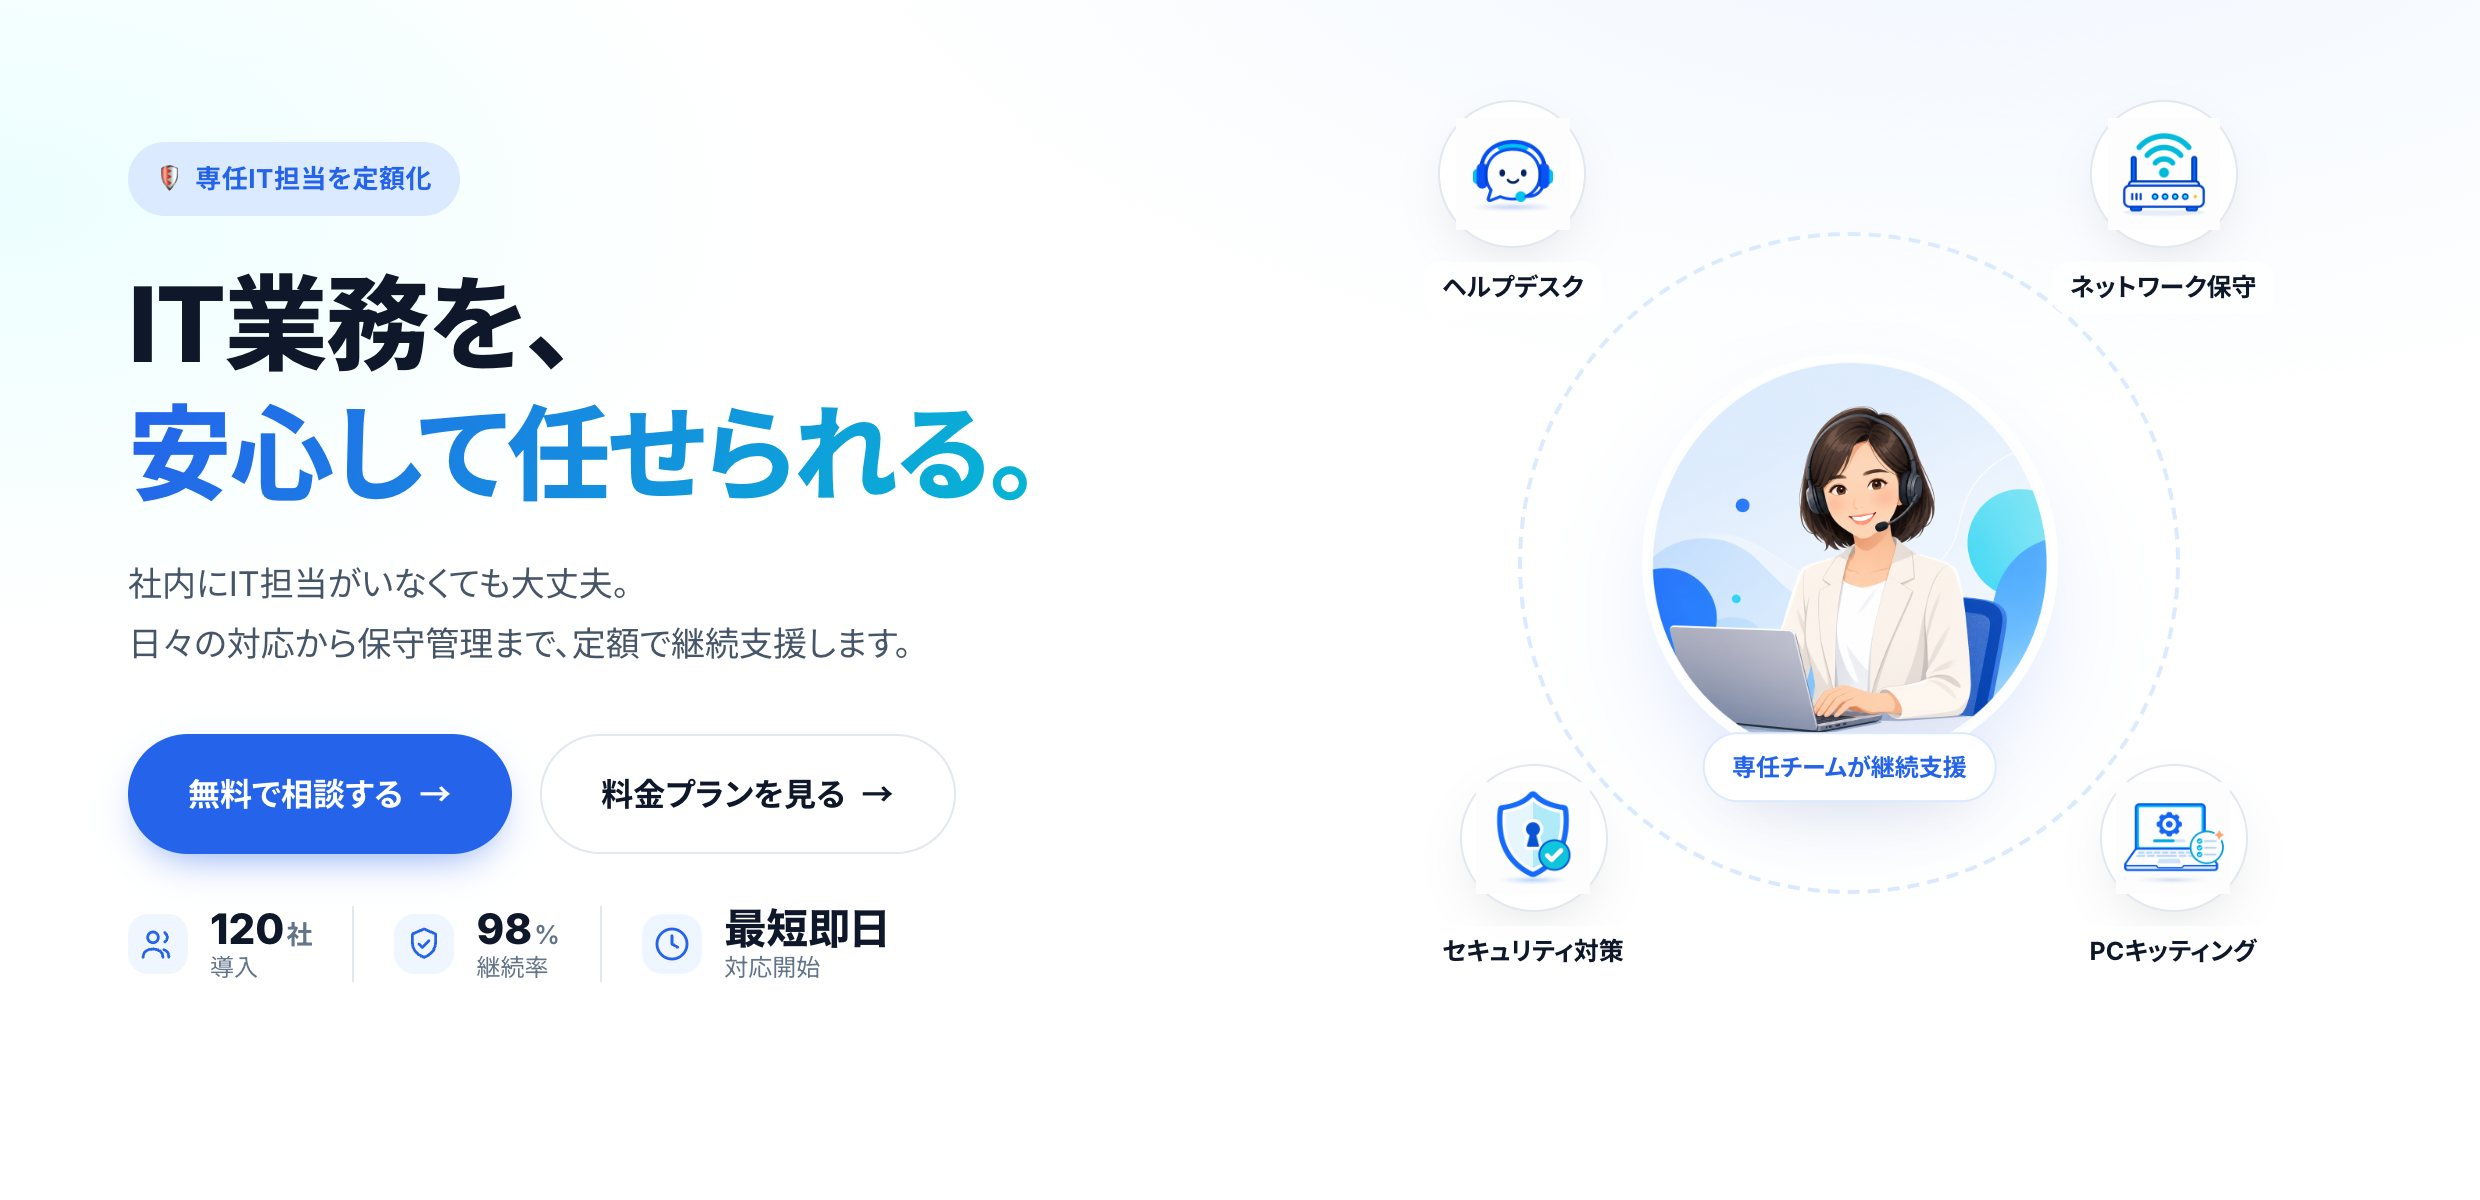
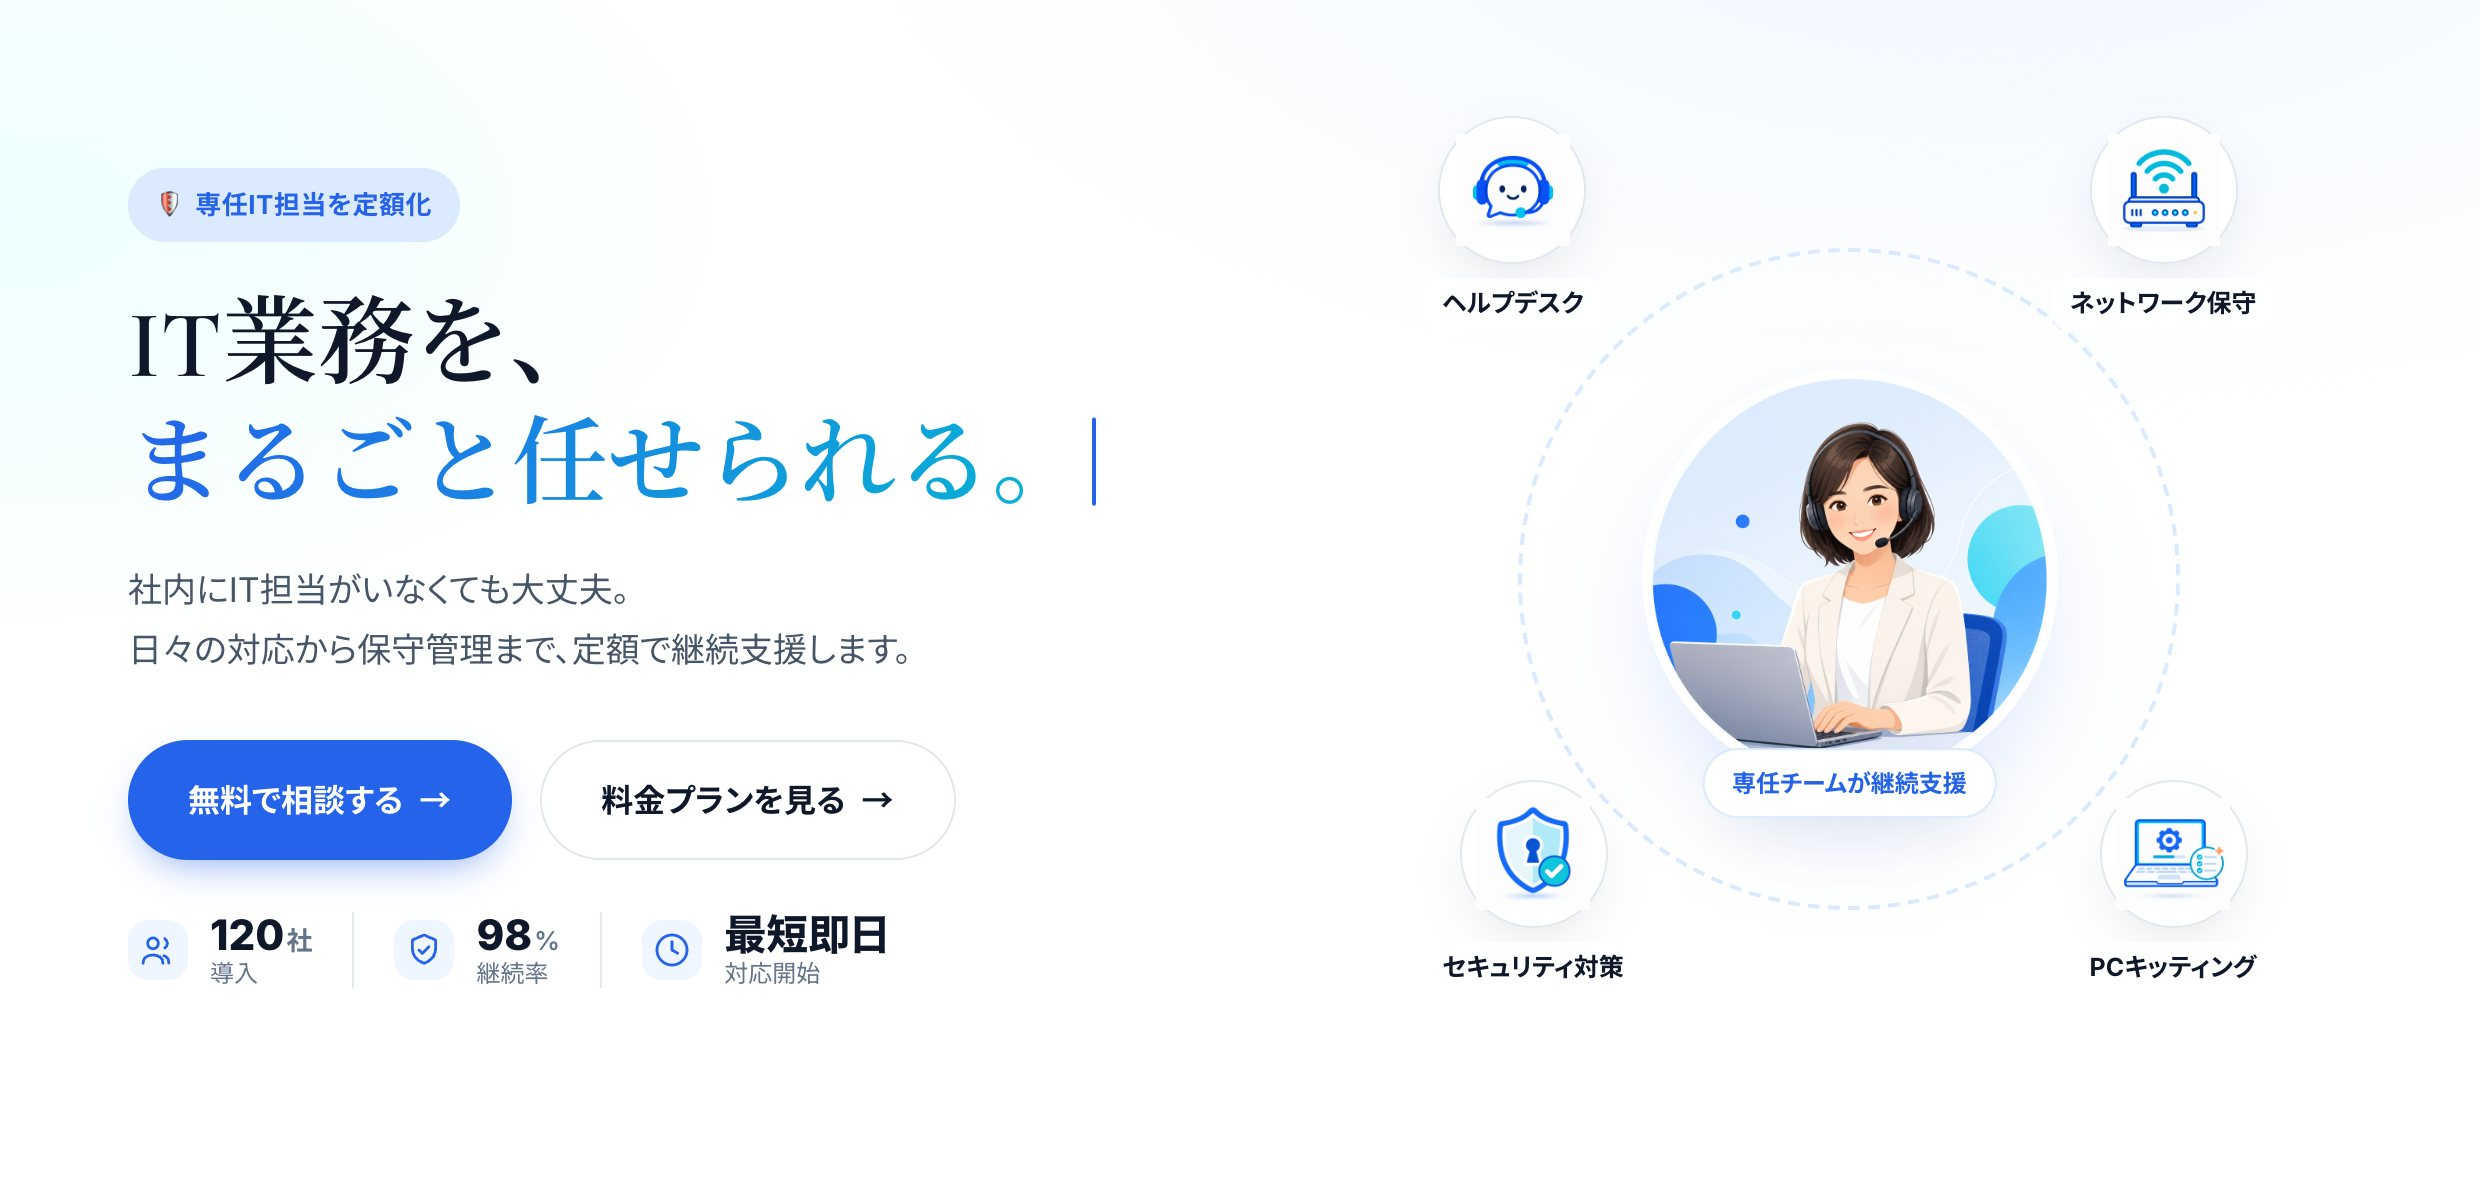
Refresh OFISYS portfolio entry
刷新版（新ロゴ・セリフ見出し・道具箱演出）にサムネ更新＋こだわり追記。

diff --git a/works/ofisys.html b/works/ofisys.html
@@ -53,11 +53,12 @@
     <div class="work-text reveal reveal-d1">
       <h2>こだわり</h2>
       <ul>
+        <li>ヒーロー見出しは<strong>セリフ体のタイプライター演出</strong>。「IT業務を、◯◯」の語尾が打ち替わり、視線を引きつける</li>
+        <li>「できること」は<strong>スクロールで道具箱からサービスが飛び出す</strong>演出（sticky連動＋時間差＋オーバーシュート）。“道具箱＝IT代行”のテーマを動きで表現</li>
         <li>ヒーローに「サービスが繋がる」構図を採用。中央の専任チームを4つのサービスが囲み、各サービスは<strong>カーソルを乗せる（スマホはタップ）と詳細がポップ</strong>する</li>
         <li>料金は<strong>月払い／年払いのトグル</strong>で金額がその場で切り替わる、SaaS定番のUI</li>
-        <li>よくある質問はクリックで開閉する<strong>アコーディオン</strong></li>
-        <li>スクロールに応じたフェードイン・追従ヘッダー・モバイルメニューなど、細部の挙動まで実装</li>
-        <li>アイコン・キャラクターイラストは画像生成（gpt-image-2）でトンマナを統一</li>
+        <li>よくある質問はクリックで開閉する<strong>アコーディオン</strong>。追従ヘッダー・モバイルメニューなど細部の挙動まで実装</li>
+        <li>ロゴ・アイコン・人物イラストまで<strong>オリジナルで制作</strong>（ロゴはSVG、画像はgpt-image-2でトンマナ統一）</li>
       </ul>
     </div>
 
